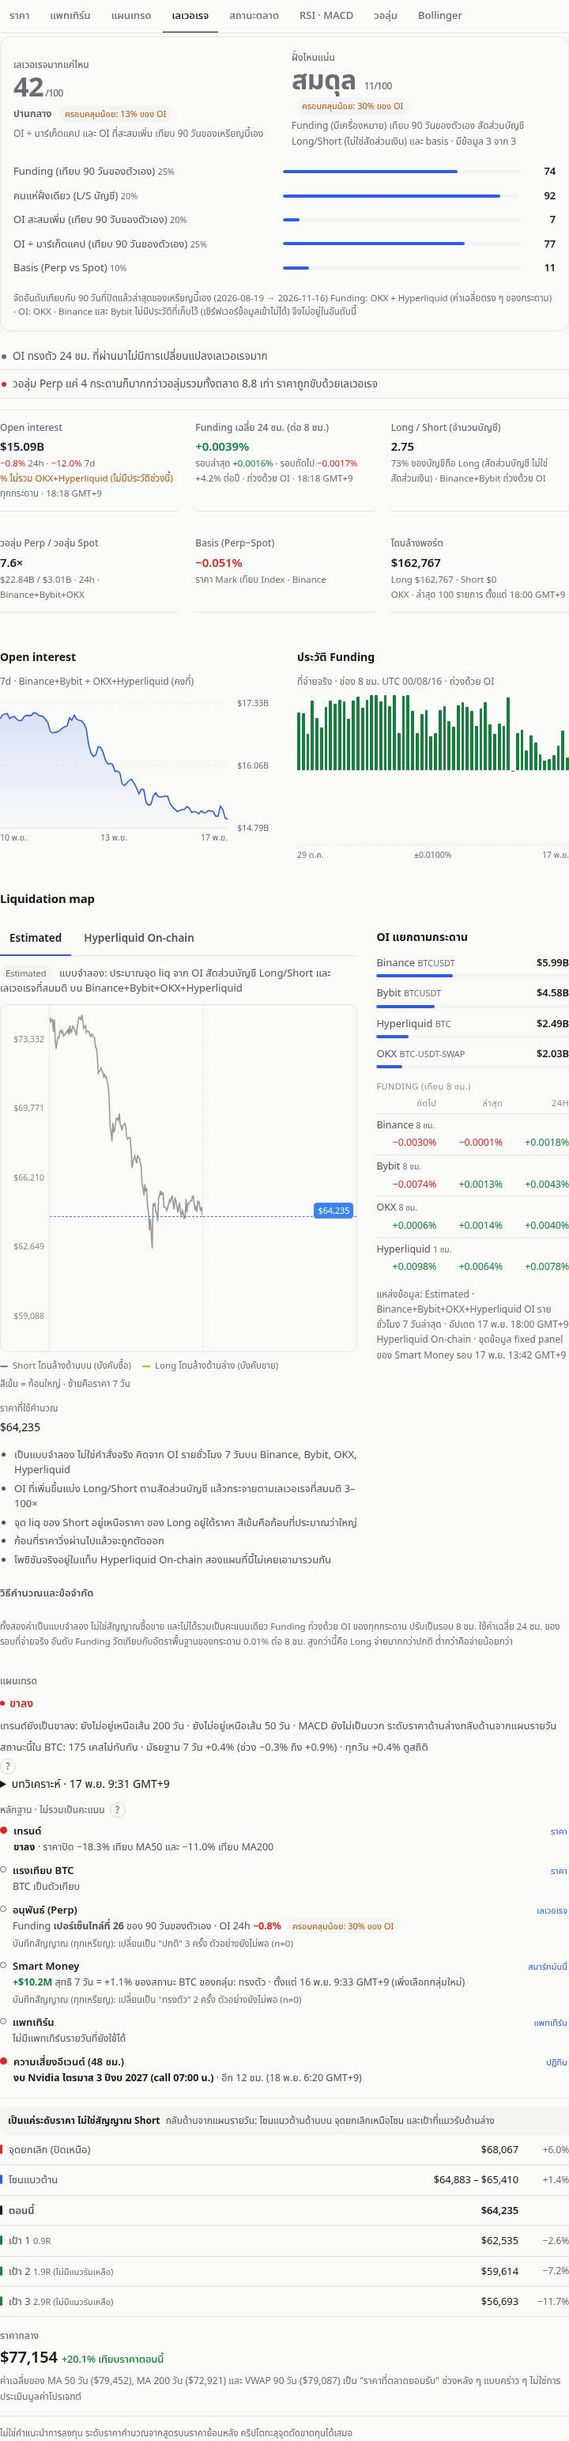
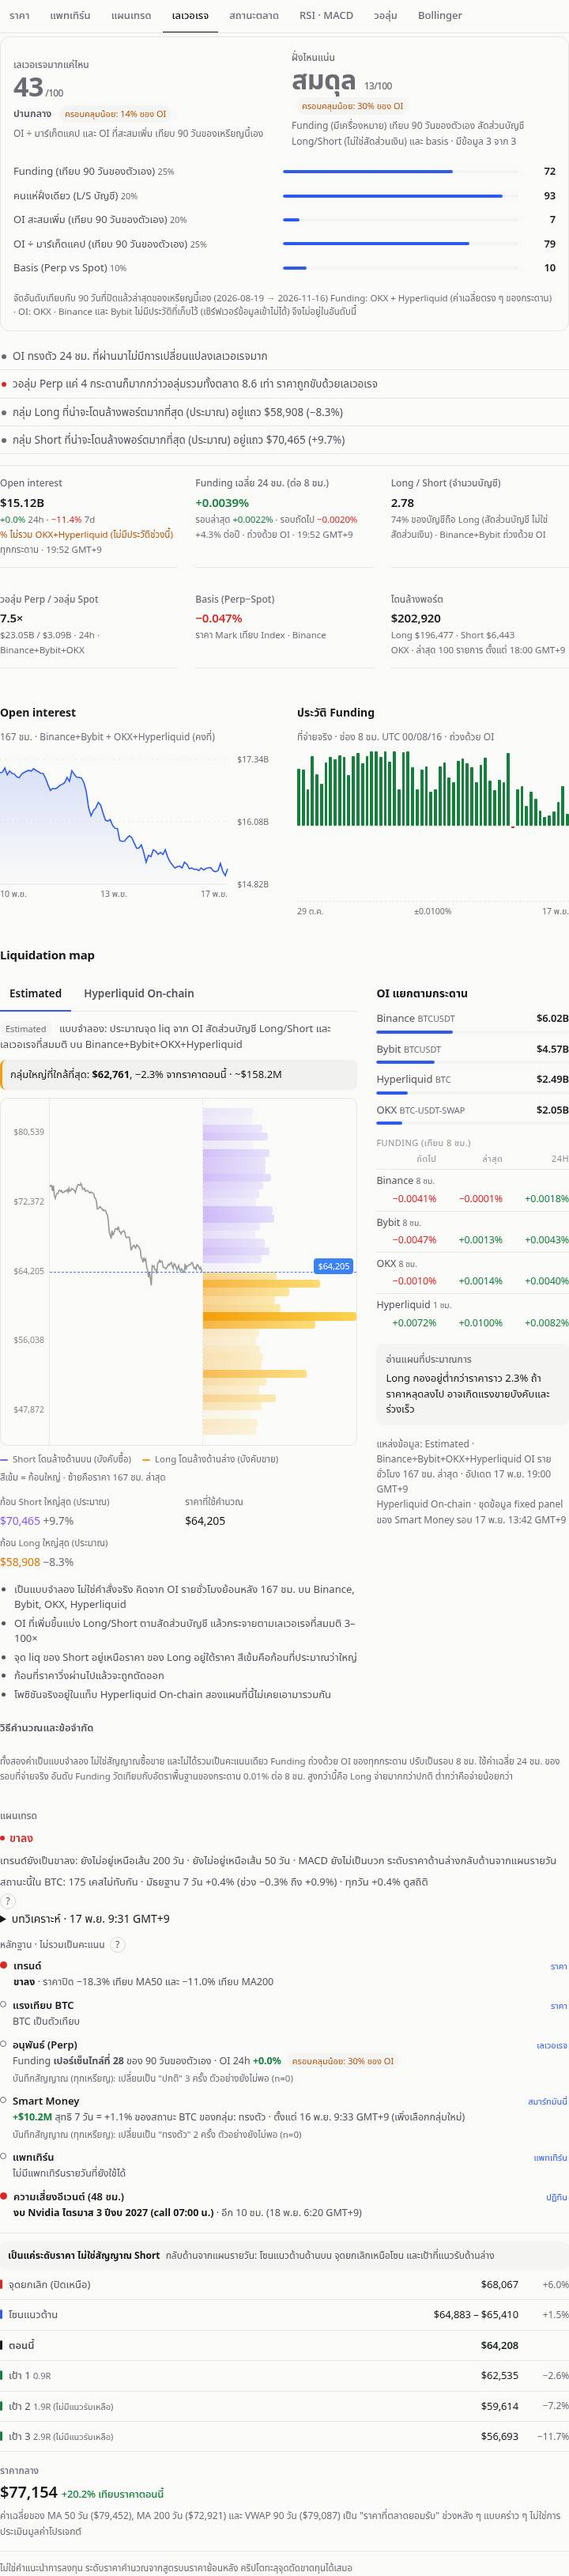
docs/qa/pr14: retake 7 widths EN+TH after the Estimated-map fix (window hours label, clusters no longer emptied)

diff --git a/docs/qa/pr14/README.md b/docs/qa/pr14/README.md
@@ -18,3 +18,5 @@ Checked on every page and width: document scrollWidth <= clientWidth, no element
 - token-lev-390-th.jpg
 - token-lev-768-en.jpg
 - token-lev-768-th.jpg
+
+Retaken 2026-11-17 ~20:00 JST after the Estimated-map fix (pre-window OI pool, coin terms, real window hours): BTC, all 7 widths EN+TH, no sideways scroll, all 4 venues loaded.
